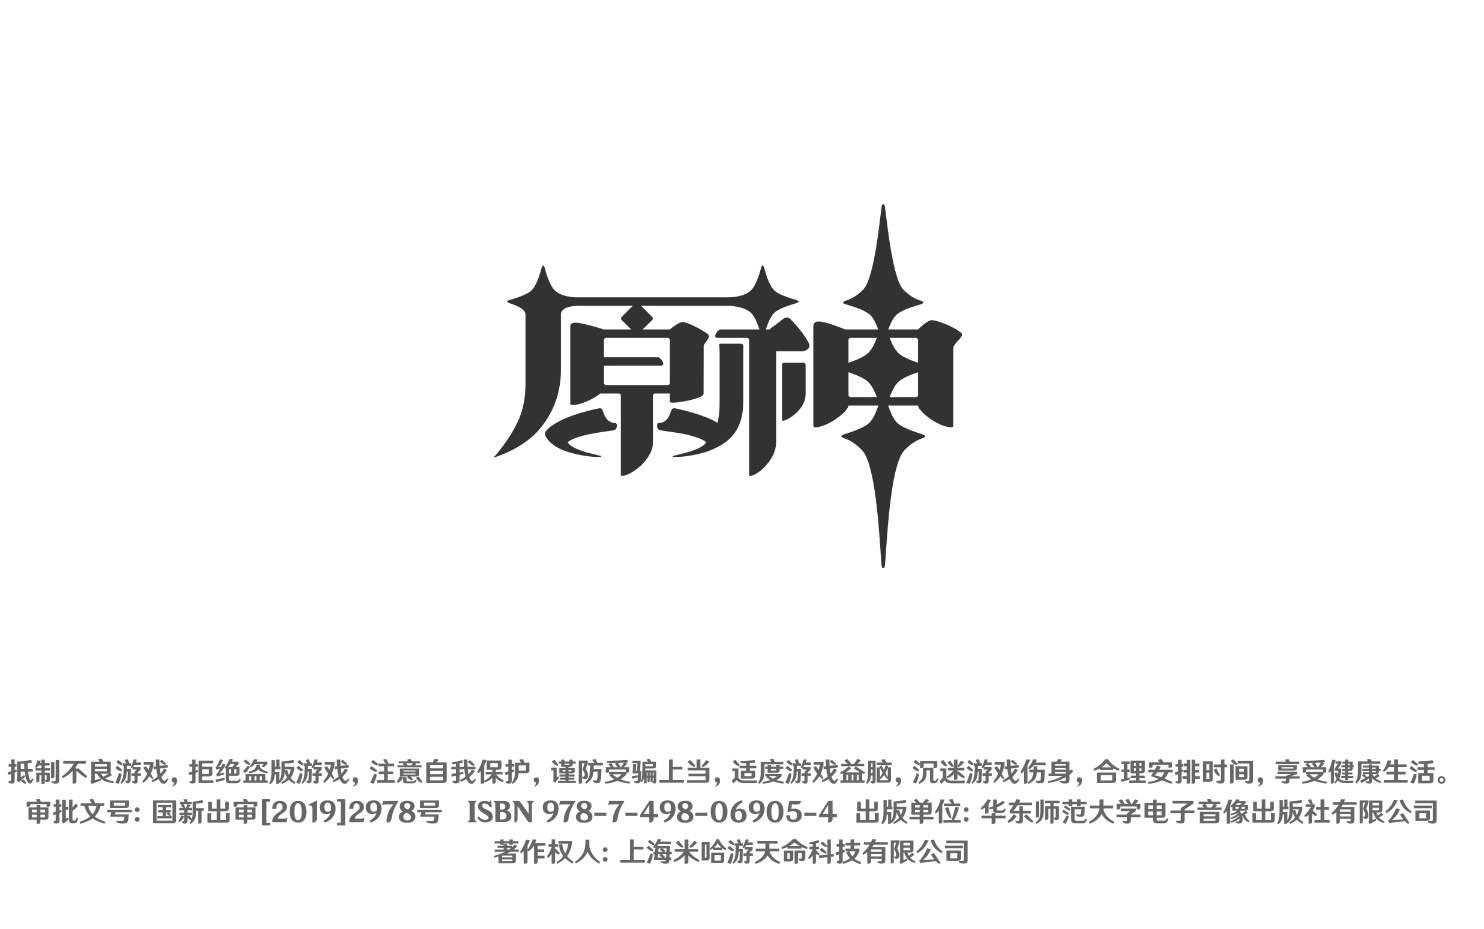
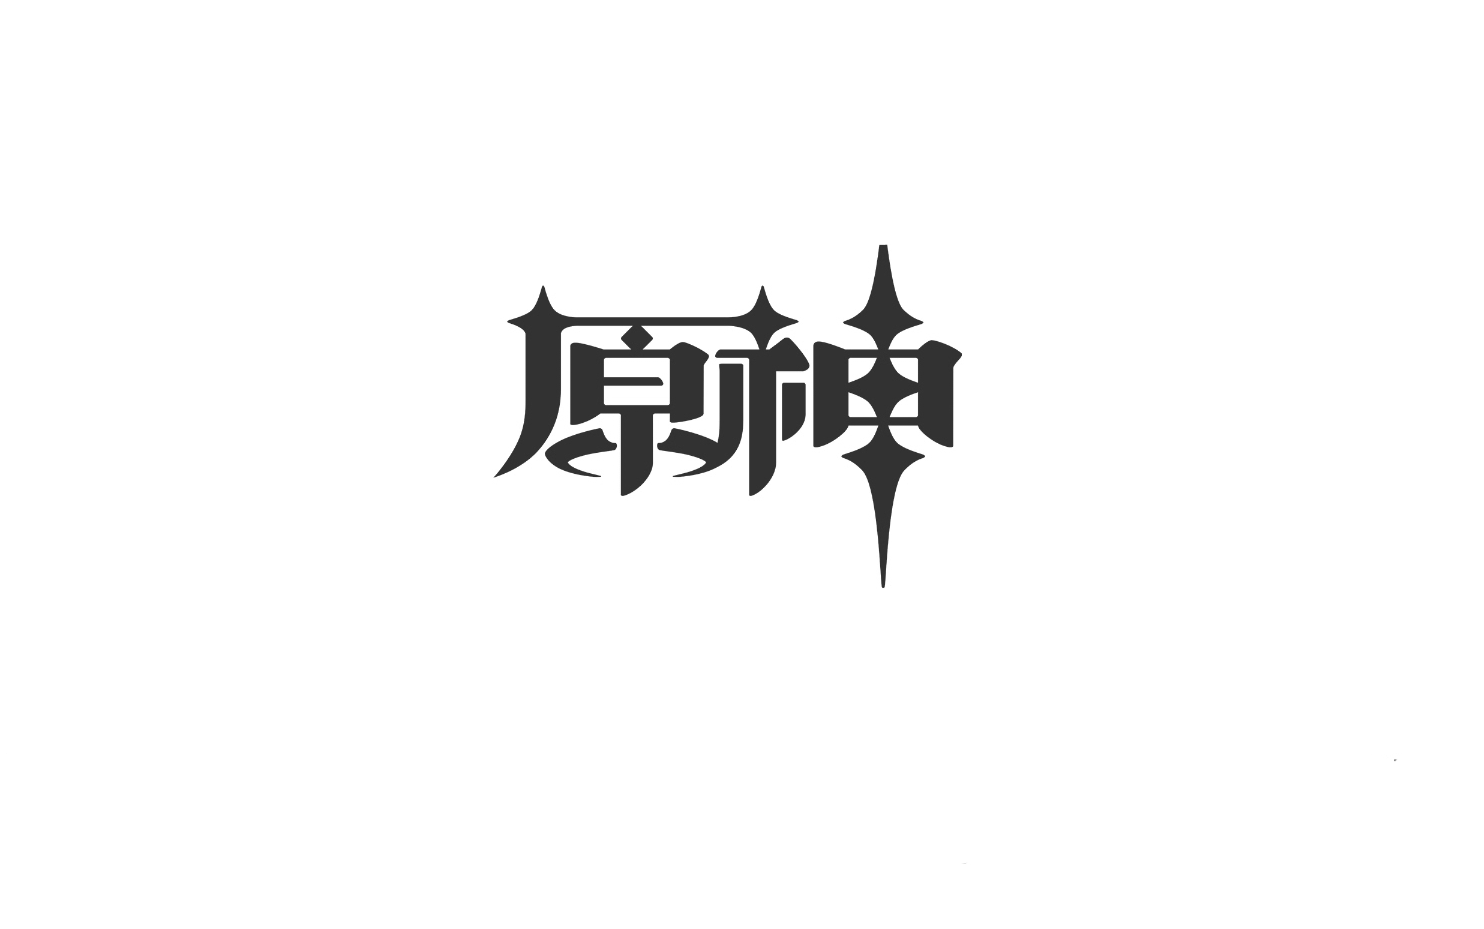
完善启动动画图片

Changed region(s): [[0.0, 0.8116, 0.9919, 0.9365], [0.341, 0.2185, 0.6509, 0.6243]]

diff --git a/src/main.py b/src/main.py
@@ -19,8 +19,8 @@ class YuanShen:
         self.fading_in = True  # 初始状态为淡入
         self.wait_time = 0  # 等待时间计数
         self.wait_duration = 72  # 设置等待的帧数（例如 120 帧约为 2秒）
-        self.show_character = True# 添加角色显示状态标志
-        self.pic_fade_out = False # 添加图片淡出状态标志
+        self.show_character = False # 添加角色显示状态标志
+        self.pic_fade_out = True # 添加图片淡出状态标志
     
     def _pic_fade_out(self):
         # 图片淡出效果
